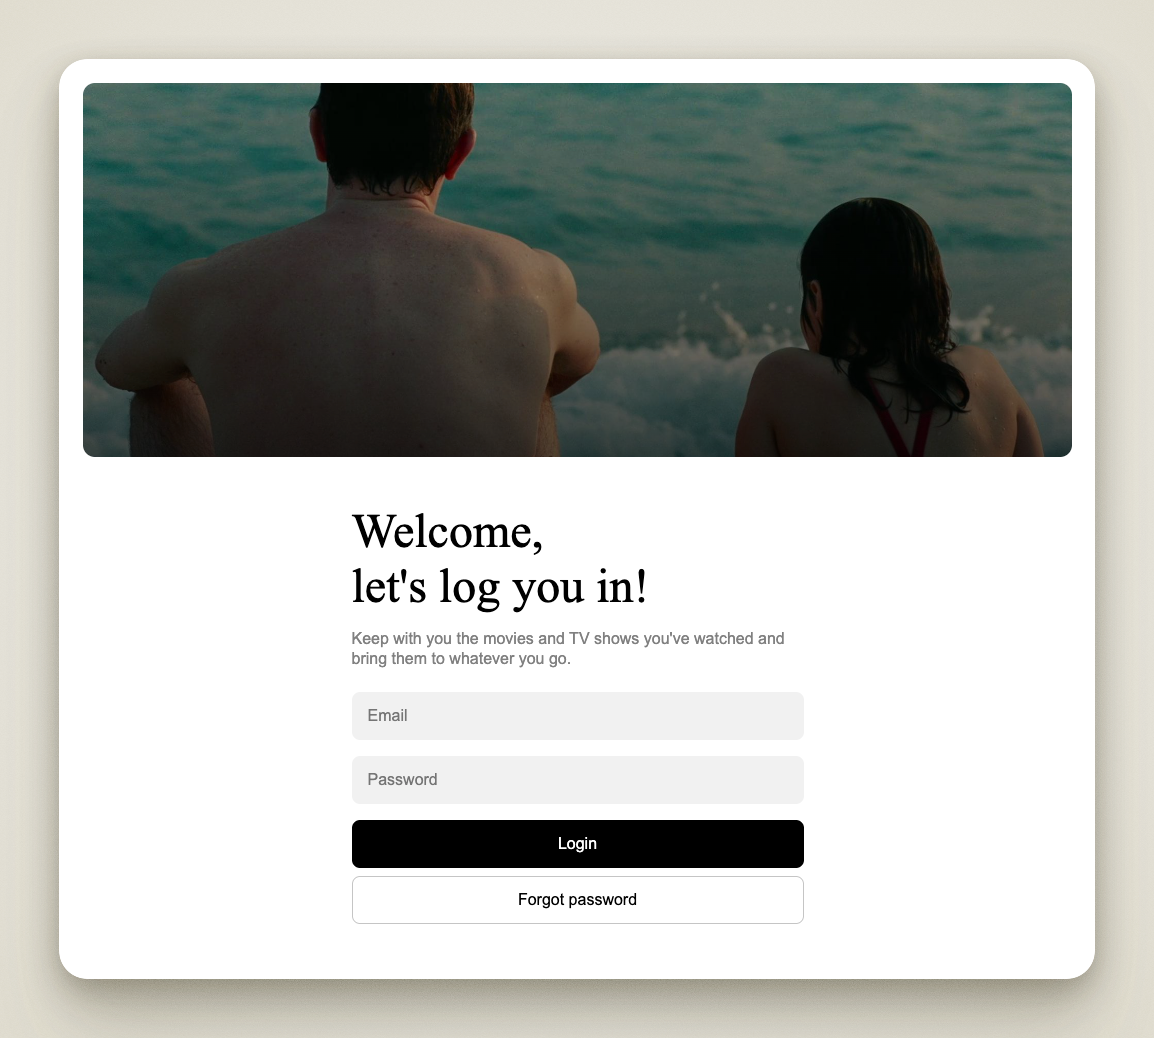
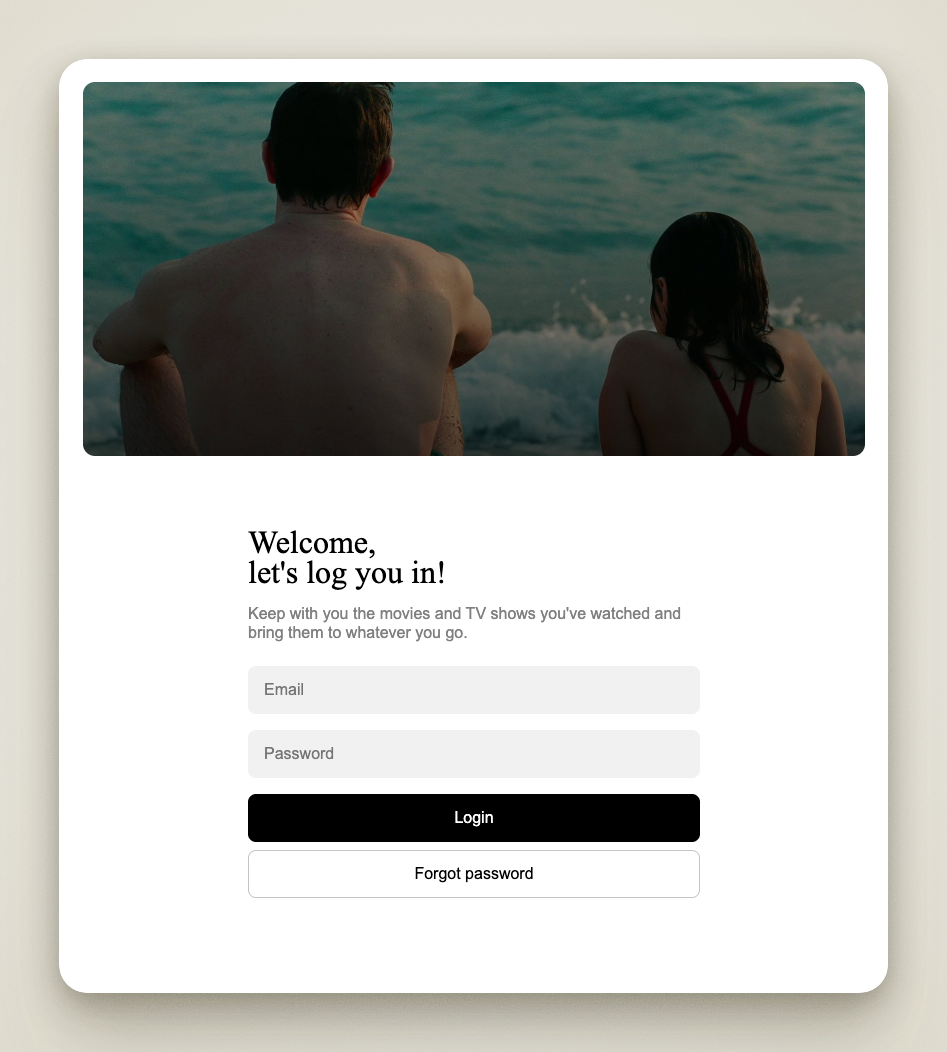
Add images for large, medium, and small screens in README for responsive design demonstration

diff --git a/README.md b/README.md
@@ -1,2 +1,11 @@
 # Context
 This time I create a login page to practice mobile first and media queries.
+
+## Large screens
+<img src="github/large.png" alt="" aria-hidden="true">
+
+## Medium screens
+<img src="github/medium.png" alt="" aria-hidden="true">
+
+## Small screens
+<img src="github/small.png" alt="" aria-hidden="true">
